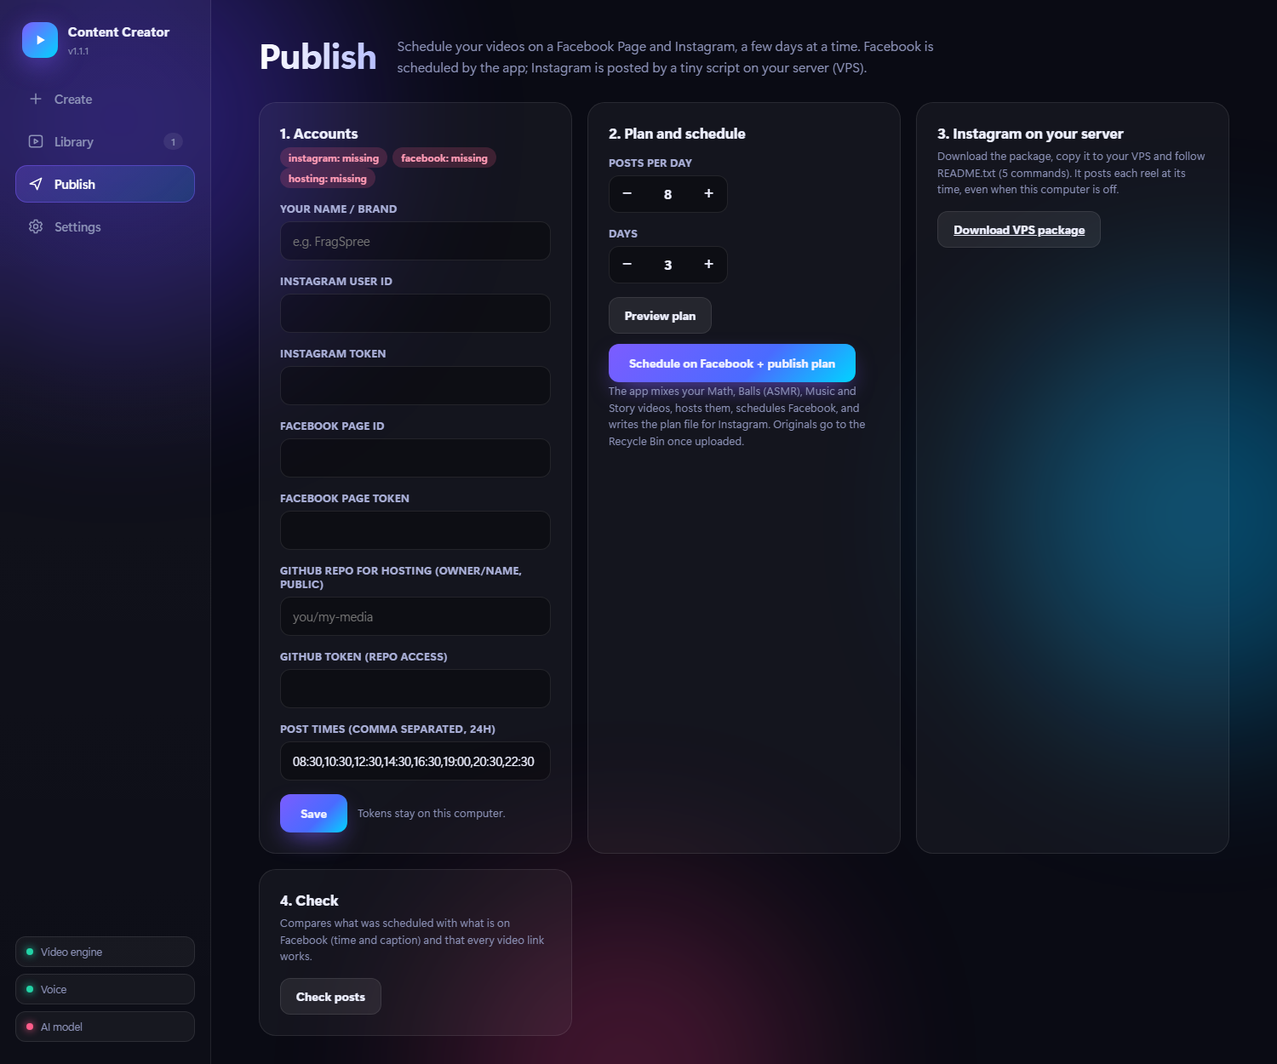
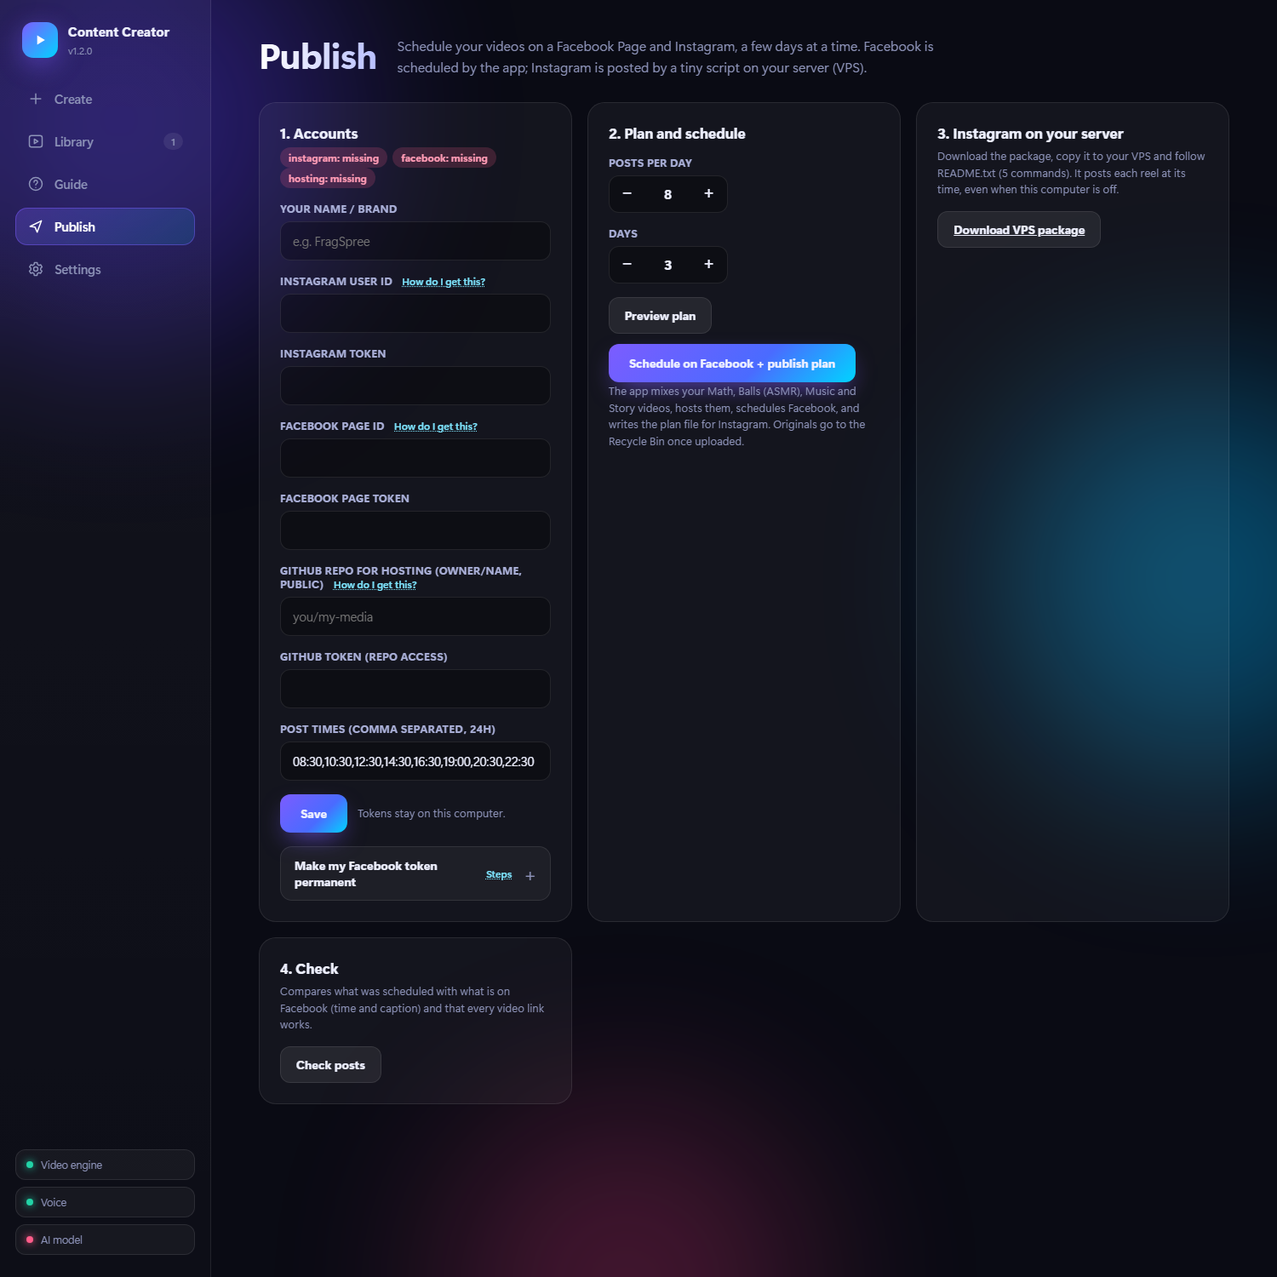
v1.3.0: in-app Guide, help links on Publish, permanent Facebook token button

diff --git a/ui/index.html b/ui/index.html
@@ -18,6 +18,7 @@
   <nav>
     <a data-page="create" class="on"><svg viewBox="0 0 24 24"><path d="M12 5v14M5 12h14"/></svg>Create</a>
     <a data-page="library"><svg viewBox="0 0 24 24"><rect x="3" y="4" width="18" height="16" rx="3"/><path d="M10 9l5 3-5 3z"/></svg>Library <span class="count" id="libCount">0</span></a>
+    <a data-page="guide"><svg viewBox="0 0 24 24"><circle cx="12" cy="12" r="9"/><path d="M9.5 9.5a2.5 2.5 0 1 1 3.5 2.3c-.7.3-1 .9-1 1.7M12 17h.01"/></svg>Guide</a>
     <a data-page="publish"><svg viewBox="0 0 24 24"><path d="M4 12l16-8-6 16-3-7z"/></svg>Publish</a>
     <a data-page="settings"><svg viewBox="0 0 24 24"><circle cx="12" cy="12" r="3"/><path d="M19 12a7 7 0 0 0-.1-1.2l2-1.5-2-3.4-2.4 1a7 7 0 0 0-2-1.2L14.1 3h-4l-.4 2.7a7 7 0 0 0-2 1.2l-2.4-1-2 3.4 2 1.5A7 7 0 0 0 5 12c0 .4 0 .8.1 1.2l-2 1.5 2 3.4 2.4-1a7 7 0 0 0 2 1.2l.4 2.7h4l.4-2.7a7 7 0 0 0 2-1.2l2.4 1 2-3.4-2-1.5c.1-.4.1-.8.1-1.2z"/></svg>Settings</a>
   </nav>
@@ -38,6 +39,8 @@
       <p>Pick a style, press generate. Everything is made on your own computer with free tools — no accounts, no uploads.</p>
     </header>
 
+    <div class="hint" id="startHint">New here? <a class="help" data-goto="g-start">Open the step-by-step guide</a> - it shows how to make your first video and how to post it.
+      <button class="x" id="hintX" title="Hide">&times;</button></div>
     <div class="grid cards" id="types">
       <button class="type" data-type="math" style="--a:#7c5cff;--b:#00d4ff">
         <span class="ico"><svg viewBox="0 0 24 24"><path d="M5 8h6M8 5v6M13 16h6M5 18l5-5M10 18l-5-5"/></svg></span>
@@ -77,6 +80,127 @@
     <div class="grid library" id="library"></div>
   </section>
 
+  <!-- GUIDE -->
+  <section class="page" id="page-guide">
+    <header class="hero slim"><h1>Guide</h1><p>New here? Start at the top and go down. Each step is short. Click a title to open it.</p></header>
+    <div class="guide">
+
+      <details class="gd" id="g-start" open><summary><span class="num">1</span>Make your first video <small>2 minutes</small></summary><div class="gd-body">
+        <ol>
+          <li>Open the <b>Create</b> page (left side).</li>
+          <li>Click a style card, for example <b>Math &amp; Puzzles</b>. A form opens below the cards.</li>
+          <li>Leave the settings as they are and press <b>Generate</b>.</li>
+          <li>Watch the <b>Queue</b> on the right. A video takes about 1 to 3 minutes.</li>
+          <li>When it says <b>Finished</b>, open <b>Library</b> and click the video to play it. The file is also in the <code>output</code> folder of the app.</li>
+        </ol>
+        <p class="note">The first time, the app may ask you to download the voice files (about 340 MB). Open <b>Settings</b> and press <b>Download voice files</b>. It is one time only.</p>
+      </div></details>
+
+      <details class="gd" id="g-styles"><summary><span class="num">2</span>What each style does</summary><div class="gd-body">
+        <ul>
+          <li><b>Math &amp; Puzzles</b> - word problems and riddles with a voice, drawings and the working-out shown step by step.</li>
+          <li><b>Satisfying Balls</b> - calming physics videos (balls, bricks, pegs) with satisfying sounds. Great for ASMR channels.</li>
+          <li><b>Music Balls</b> - balls play a famous public-domain song on a xylophone, bells, glass or drums.</li>
+          <li><b>Story &amp; Facts</b> - you type topics, the AI writes the script, a voice reads it. Needs Ollama (see Settings).</li>
+          <li><b>From a reference link</b> - paste a link to a video you like. The app studies its style and makes a new, original video.</li>
+        </ul>
+      </div></details>
+
+      <details class="gd" id="g-ai"><summary><span class="num">3</span>Turn on the AI (optional) <small>needed for Story &amp; reference</small></summary><div class="gd-body">
+        <ol>
+          <li>Install <b>Ollama</b> from <b>ollama.com</b> and open it once.</li>
+          <li>In this app open <b>Settings</b>. Under <b>Download a model</b> leave <code>llama3.2:3b</code> and press <b>Download</b>. It takes a while (about 2 GB).</li>
+          <li>When it finishes, choose it under <b>Model</b> and press <b>Save</b>.</li>
+        </ol>
+      </div></details>
+
+      <details class="gd" id="g-post"><summary><span class="num">4</span>Post your videos automatically <small>Facebook + Instagram</small></summary><div class="gd-body">
+        <p>This part needs a few accounts and keys. Do the steps below once, in order. You will copy a few IDs and tokens into the <b>Publish</b> page. Nobody else sees them - they stay on this computer.</p>
+        <p class="note"><b>What you need first:</b> an Instagram <b>Professional</b> account (Business or Creator), a Facebook <b>Page</b> you manage, and a free GitHub account.</p>
+      </div></details>
+
+      <details class="gd" id="g-ig"><summary><span class="num">4a</span>Instagram: get the token and ID</summary><div class="gd-body">
+        <ol>
+          <li>Make sure your Instagram is a Professional account: Instagram app &rarr; <b>Settings</b> &rarr; <b>Account type and tools</b> &rarr; switch to professional (Creator or Business).</li>
+          <li>Go to <b>developers.facebook.com</b> and log in with your Facebook.</li>
+          <li>Click <b>My Apps</b> &rarr; <b>Create App</b>. Choose the use case <b>Manage messaging &amp; content on Instagram</b> (or <b>Other</b> &rarr; <b>Business</b>). Give it any name.</li>
+          <li>In the app, open <b>Instagram</b> &rarr; <b>API setup with Instagram login</b>.</li>
+          <li>Open <b>App roles</b> &rarr; <b>Roles</b> &rarr; <b>Add People</b> &rarr; choose <b>Instagram Tester</b> and type your Instagram username.</li>
+          <li><b>Accept the invite</b> in the Instagram app: <b>Settings</b> &rarr; <b>Apps and websites</b> &rarr; <b>Tester invites</b>. (This is the step most people miss.)</li>
+          <li>Back on the API setup page, add the permission <code>instagram_business_content_publish</code> (under <b>Permissions and features</b>).</li>
+          <li>On the API setup page click <b>Add account</b>, log in to your Instagram, then <b>Generate token</b>. Copy the <b>token</b> and the <b>Instagram account ID</b>.</li>
+          <li>In this app: <b>Publish</b> &rarr; paste them into <b>Instagram user ID</b> and <b>Instagram token</b> &rarr; <b>Save</b>.</li>
+        </ol>
+        <p class="note">The token lasts about 60 days. The server script refreshes it automatically.</p>
+      </div></details>
+
+      <details class="gd" id="g-fb"><summary><span class="num">4b</span>Facebook: get the Page ID and a token that never expires</summary><div class="gd-body">
+        <ol>
+          <li>On <b>developers.facebook.com</b> open your app (or make a second one the same way). Add the use case <b>Manage everything on your Page</b>.</li>
+          <li>Under that use case, open <b>Permissions and features</b> and add: <code>pages_show_list</code>, <code>pages_manage_posts</code>, <code>pages_read_engagement</code>.</li>
+          <li>Open <b>Tools</b> &rarr; <b>Graph API Explorer</b>. Pick your app. Leave <b>User or Page</b> on <b>User Token</b>.</li>
+          <li>Under <b>Permissions</b> add the same three permissions and press <b>Generate Access Token</b>. Approve the pop-ups and choose your Page.</li>
+          <li>In the request box type <code>me/accounts?fields=id,name</code> and press <b>Submit</b>. Find your Page's name and copy its <b>id</b>. That is the <b>Page ID</b>.</li>
+          <li>Copy the long token from the <b>Access Token</b> box (this is the short-lived User token).</li>
+          <li>In your app on developers.facebook.com open <b>App settings</b> &rarr; <b>Basic</b>. Copy the <b>App ID</b>. Click <b>Show</b> next to <b>App secret</b> and copy it.</li>
+          <li>In this app: <b>Publish</b> &rarr; type the <b>Facebook Page ID</b> and press <b>Save</b>. Then open <b>Make my Facebook token permanent</b>, paste the App ID, App secret and the User token, and press the button.</li>
+        </ol>
+        <p class="note">When it works you will see your Page name and "never expires". The app secret and user token are not stored.</p>
+      </div></details>
+
+      <details class="gd" id="g-gh"><summary><span class="num">4c</span>GitHub: a place to host your videos for Instagram</summary><div class="gd-body">
+        <p>Instagram downloads each video from a normal web link. A free public GitHub repository gives you that.</p>
+        <ol>
+          <li>Go to <b>github.com</b> &rarr; <b>New repository</b>. Name it something like <code>my-media</code>, choose <b>Public</b>, tick <b>Add a README</b>, press <b>Create</b>.</li>
+          <li>Click your profile picture &rarr; <b>Settings</b> &rarr; <b>Developer settings</b> &rarr; <b>Personal access tokens</b> &rarr; <b>Fine-grained tokens</b> &rarr; <b>Generate new token</b>.</li>
+          <li>Pick <b>Only select repositories</b> and choose your new repo. Under <b>Permissions</b> &rarr; <b>Repository permissions</b> set <b>Contents</b> to <b>Read and write</b>. Generate and copy the token.</li>
+          <li>In this app: <b>Publish</b> &rarr; <b>GitHub repo</b> = <code>yourname/my-media</code>, <b>GitHub token</b> = the token &rarr; <b>Save</b>.</li>
+        </ol>
+        <p class="note">Videos stay in the repo only until you remove them. Anyone can see a public repo, but these are videos you are posting publicly anyway.</p>
+      </div></details>
+
+      <details class="gd" id="g-plan"><summary><span class="num">4d</span>Make a plan and schedule it</summary><div class="gd-body">
+        <ol>
+          <li>Open <b>Publish</b>. Check the three tags at the top say <b>ready</b>.</li>
+          <li>Under <b>Post times</b> keep the list or change it (24-hour clock, separated by commas).</li>
+          <li>Choose <b>Posts per day</b> and <b>Days</b>, then press <b>Preview plan</b>. Read the list.</li>
+          <li>Press <b>Schedule on Facebook + publish plan</b>. The app uploads the videos, schedules Facebook, and publishes the plan for Instagram. Watch the <b>Queue</b>.</li>
+          <li>Press <b>Check posts</b> later to see that everything matches.</li>
+        </ol>
+        <p class="note">Facebook posts are scheduled by Facebook itself, so your computer can be off. Instagram has no scheduling, so a small script on a server posts it at the right time (next step).</p>
+      </div></details>
+
+      <details class="gd" id="g-vps"><summary><span class="num">4e</span>Instagram posting on a server (VPS)</summary><div class="gd-body">
+        <p>Do this once. A VPS is a small always-on computer you rent. Windows or Linux both work.</p>
+        <ol>
+          <li>In the app: <b>Publish</b> &rarr; <b>Download VPS package</b>. Unzip it. Copy the folder to the VPS (for example <code>C:\poster</code>).</li>
+          <li>On the VPS make sure Python 3 is installed (<code>python --version</code>). Then install one library:<pre>python -m pip install requests</pre></li>
+          <li>Create the file <code>.env</code> in that folder (copy <code>.env.template</code>) and fill in <code>IG_USER_ID</code> and <code>IG_TOKEN</code>.</li>
+          <li>Test: <pre>python vps_poster.py --dry</pre> It should say <b>started (dry run)</b>.</li>
+          <li><b>Windows:</b> run this in PowerShell as Administrator so it starts by itself after a restart:
+<pre>$py = (Get-Command python).Source
+$a = New-ScheduledTaskAction -Execute $py -Argument "C:\poster\vps_poster.py" -WorkingDirectory "C:\poster"
+$t = New-ScheduledTaskTrigger -AtStartup
+Register-ScheduledTask -TaskName Poster -Action $a -Trigger $t -RunLevel Highest -User "SYSTEM" -Force
+Start-ScheduledTask -TaskName Poster</pre></li>
+          <li><b>Linux:</b> <pre>nohup python3 vps_poster.py &gt; /dev/null 2&gt;&amp;1 &amp;</pre></li>
+          <li>Open <code>vps_poster.log</code> in that folder to see what it did. You are done - it posts at each time in your plan.</li>
+        </ol>
+      </div></details>
+
+      <details class="gd" id="g-help"><summary><span class="num">?</span>If something goes wrong</summary><div class="gd-body">
+        <ul>
+          <li><b>"Voice model missing"</b> - Settings &rarr; Download voice files.</li>
+          <li><b>"Ollama is not running"</b> - open the Ollama app, then try again.</li>
+          <li><b>Facebook says the token expired</b> - repeat 4b (the permanent token button).</li>
+          <li><b>Instagram says ERROR</b> - the video link must be public. Check the GitHub repo is <b>Public</b> and the GitHub token has <b>Contents: Read and write</b>.</li>
+          <li><b>Nothing posts on Instagram</b> - check the VPS script is running and read <code>vps_poster.log</code>. The VPS must be on.</li>
+          <li><b>The app looks old</b> - Settings &rarr; Check now. Updates keep your videos and settings.</li>
+        </ul>
+      </div></details>
+    </div>
+  </section>
+
   <!-- PUBLISH -->
   <section class="page" id="page-publish">
     <header class="hero slim"><h1>Publish</h1><p>Schedule your videos on a Facebook Page and Instagram, a few days at a time. Facebook is scheduled by the app; Instagram is posted by a tiny script on your server (VPS).</p></header>
@@ -85,14 +209,21 @@
         <h3>1. Accounts</h3>
         <p class="muted" id="pubReady"></p>
         <label>Your name / brand</label><input id="p_brand" placeholder="e.g. FragSpree">
-        <label>Instagram user ID</label><input id="p_ig_user_id">
+        <label>Instagram user ID <a class="help" data-goto="g-ig">How do I get this?</a></label><input id="p_ig_user_id">
         <label>Instagram token</label><input id="p_ig_token" type="password" autocomplete="off">
-        <label>Facebook Page ID</label><input id="p_fb_page_id">
+        <label>Facebook Page ID <a class="help" data-goto="g-fb">How do I get this?</a></label><input id="p_fb_page_id">
         <label>Facebook Page token</label><input id="p_fb_page_token" type="password" autocomplete="off">
-        <label>GitHub repo for hosting (owner/name, public)</label><input id="p_github_repo" placeholder="you/my-media">
+        <label>GitHub repo for hosting (owner/name, public) <a class="help" data-goto="g-gh">How do I get this?</a></label><input id="p_github_repo" placeholder="you/my-media">
         <label>GitHub token (repo access)</label><input id="p_github_token" type="password" autocomplete="off">
         <label>Post times (comma separated, 24h)</label><input id="p_slots">
         <div class="row"><button class="btn primary" id="pubSave">Save</button><span class="muted">Tokens stay on this computer.</span></div>
+        <details class="gd mini"><summary>Make my Facebook token permanent <a class="help" data-goto="g-fb">Steps</a></summary><div class="gd-body">
+          <p class="muted">Facebook tokens normally die after a few hours. Paste these three values once and the app gets a Page token that never expires. They are not stored.</p>
+          <label>App ID</label><input id="pm_app_id" autocomplete="off">
+          <label>App secret</label><input id="pm_app_secret" type="password" autocomplete="off">
+          <label>User token (from Graph API Explorer)</label><input id="pm_user_token" type="password" autocomplete="off">
+          <div class="row"><button class="btn" id="pmGo">Make it permanent</button><span class="muted" id="pmOut"></span></div>
+        </div></details>
       </div>
       <div class="panel">
         <h3>2. Plan and schedule</h3>

diff --git a/ui/app.js b/ui/app.js
@@ -23,6 +23,7 @@ $$("nav a").forEach(a => a.onclick = () => {
   if (a.dataset.page === "library") loadLibrary();
   if (a.dataset.page === "settings") renderSettings();
   if (a.dataset.page === "publish") loadPublish();
+  window.scrollTo(0, 0);
 });
 
 /* ---------------- composer ---------------- */
@@ -242,6 +243,16 @@ $("#updBtn").onclick = async () => {
   } catch (e) { toast("Update failed: " + e.message, "bad"); $("#updBtn").disabled = false; $("#updBtn").textContent = "Update now"; }
 };
 
+/* ---------------- guide links ---------------- */
+function goGuide(id) {
+  $('nav a[data-page="guide"]').click();
+  const el = document.getElementById(id);
+  if (el) { el.open = true; setTimeout(() => el.scrollIntoView({ behavior: "smooth", block: "start" }), 80); }
+}
+document.addEventListener("click", e => { const a = e.target.closest("[data-goto]"); if (a) { e.preventDefault(); e.stopPropagation(); goGuide(a.dataset.goto); } });
+try { if (localStorage.getItem("hintX")) $("#startHint").hidden = true; } catch { }
+$("#hintX").onclick = () => { $("#startHint").hidden = true; try { localStorage.setItem("hintX", "1"); } catch { } };
+
 /* ---------------- publish ---------------- */
 const PUB = ["brand", "ig_user_id", "ig_token", "fb_page_id", "fb_page_token", "github_repo", "github_token", "slots"];
 const pubForm = { per_day: 8, days: 3 };
@@ -262,6 +273,18 @@ $("#pubSave").onclick = async () => {
 const table = (rows, cols) => rows.length ? `<div style="overflow:auto;max-height:340px;margin-top:14px"><table style="width:100%;border-collapse:collapse;font-size:13px">` +
   `<tr>${cols.map(c => `<th style="text-align:left;padding:6px 8px;color:var(--muted)">${c[1]}</th>`).join("")}</tr>` +
   rows.map(r => `<tr style="border-top:1px solid var(--line)">${cols.map(c => `<td style="padding:6px 8px">${esc(r[c[0]])}</td>`).join("")}</tr>`).join("") + `</table></div>` : `<p class="muted">Nothing to show yet.</p>`;
+$("#pmGo").onclick = async () => {
+  $("#pmOut").textContent = "Working...";
+  try {
+    const r = await fetch("/api/publish/permanent", { method: "POST", headers: { "Content-Type": "application/json" },
+      body: JSON.stringify({ app_id: $("#pm_app_id").value, app_secret: $("#pm_app_secret").value, user_token: $("#pm_user_token").value }) });
+    const j = await r.json();
+    if (!r.ok) throw new Error(j.error);
+    $("#pmOut").textContent = `Done: ${j.page} - token expires ${j.expires}`;
+    ["pm_app_secret", "pm_user_token"].forEach(i => $("#" + i).value = "");
+    toast("Facebook token saved", "good"); loadPublish();
+  } catch (e) { $("#pmOut").textContent = ""; toast(e.message, "bad"); }
+};
 $("#pubPreview").onclick = async () => {
   try { const plan = await api("/api/publish/plan", pubForm); $("#pubTable").innerHTML = table(plan, [["n", "#"], ["time", "When"], ["type", "Type"], ["name", "Video"]]); }
   catch (e) { toast(e.message, "bad"); }
@@ -284,6 +307,6 @@ $("#pubVerify").onclick = async () => {
   setInterval(loadStatus, 5 * 60 * 1000);
   // deep links: #library, #settings, #type=math  (used for the README screenshots)
   const h = location.hash.slice(1);
-  if (h === "library" || h === "settings" || h === "publish") $(`nav a[data-page=${h}]`).click();
+  if (h === "library" || h === "settings" || h === "publish" || h === "guide") $(`nav a[data-page=${h}]`).click();
   if (h.startsWith("type=")) openComposer(h.slice(5));
 })();

diff --git a/ui/style.css b/ui/style.css
@@ -138,3 +138,20 @@ select option{background:#14162a}
 ::-webkit-scrollbar{width:10px;height:10px}::-webkit-scrollbar-thumb{background:rgba(255,255,255,.12);border-radius:99px}
 
 @media (prefers-reduced-motion: reduce){*,*::before,*::after{animation:none!important;transition:none!important}}
+
+.guide{display:flex;flex-direction:column;gap:12px;max-width:900px}
+.gd{background:var(--panel);border:1px solid var(--line);border-radius:18px;overflow:hidden}
+.gd summary{list-style:none;cursor:pointer;padding:16px 20px;font-weight:700;font-size:16px;display:flex;align-items:center;gap:14px}
+.gd summary::-webkit-details-marker{display:none}
+.gd summary::after{content:"+";margin-left:auto;color:var(--muted);font-size:22px;font-weight:400}
+.gd[open] summary::after{content:"\2212"}
+.gd summary small{color:var(--muted);font-weight:500;font-size:12.5px}
+.gd .num{min-width:34px;height:34px;border-radius:11px;background:linear-gradient(135deg,var(--accent),var(--accent2));display:grid;place-items:center;font-size:14px;padding:0 6px}
+.gd-body{padding:4px 22px 20px 68px;color:#cfd3f5;line-height:1.65;font-size:14.5px}
+.gd-body ol,.gd-body ul{padding-left:20px;display:flex;flex-direction:column;gap:7px;margin:8px 0}
+.gd-body pre{background:rgba(0,0,0,.35);border:1px solid var(--line);border-radius:12px;padding:12px 14px;margin:8px 0;overflow:auto;font-size:13px;color:#e7e9ff;white-space:pre-wrap}
+.gd-body .note{margin-top:12px;padding:12px 14px;border-radius:12px;background:rgba(0,212,255,.08);border:1px solid rgba(0,212,255,.25);font-size:13.5px}
+.gd.mini{margin-top:16px;border-radius:14px}.gd.mini summary{font-size:14px;padding:12px 16px}.gd.mini .gd-body{padding:0 16px 16px}
+a.help{color:#7fe6ff;font-size:12px;font-weight:600;text-transform:none;letter-spacing:0;margin-left:8px;cursor:pointer;text-decoration:underline dotted}
+.hint{display:flex;align-items:center;gap:10px;margin:-8px 0 20px;padding:12px 16px;border-radius:14px;background:rgba(124,92,255,.14);border:1px solid rgba(124,92,255,.4);font-size:14px}
+.hint .x{margin-left:auto;background:none;border:0;color:var(--muted);font-size:20px;cursor:pointer}

diff --git a/forge/publisher.py b/forge/publisher.py
@@ -226,3 +226,21 @@ def vps_package() -> bytes:
         z.writestr(".env.template", "IG_USER_ID=\nIG_TOKEN=\n")
         z.writestr("README.txt", readme)
     return buf.getvalue()
+
+
+def make_permanent(app_id: str, app_secret: str, user_token: str) -> dict:
+    """short-lived User token + app id/secret -> never-expiring Page token, saved in the config (secrets are not stored)"""
+    cfg = load()
+    if not cfg["fb_page_id"]:
+        raise RuntimeError("Enter the Facebook Page ID first (Accounts), then press Save.")
+    r = requests.get(f"https://graph.facebook.com/{GRAPH}/oauth/access_token", params={
+        "grant_type": "fb_exchange_token", "client_id": app_id, "client_secret": app_secret, "fb_exchange_token": user_token}, timeout=30).json()
+    if "access_token" not in r:
+        raise RuntimeError("Facebook said: " + str(r.get("error", {}).get("message", r)))
+    p = requests.get(f"https://graph.facebook.com/{GRAPH}/{cfg['fb_page_id']}", params={"fields": "name,access_token", "access_token": r["access_token"]}, timeout=30).json()
+    if "access_token" not in p:
+        raise RuntimeError("Could not get the Page token: " + str(p.get("error", {}).get("message", p)))
+    d = requests.get("https://graph.facebook.com/debug_token", params={"input_token": p["access_token"], "access_token": p["access_token"]}, timeout=30).json().get("data", {})
+    save({"fb_page_token": p["access_token"]})
+    exp = d.get("expires_at", 0)
+    return {"page": p.get("name", ""), "expires": "never" if not exp else f"in {round((exp - time.time()) / 86400)} days"}

diff --git a/app.py b/app.py
@@ -109,6 +109,15 @@ def pub_run():
     return jsonify(jobs.submit("publish", {"per_day": d.get("per_day", 8), "days": d.get("days", 3), "start": d.get("start", "")}))
 
 
+@app.post("/api/publish/permanent")
+def pub_permanent():
+    d = request.get_json(force=True) or {}
+    try:
+        return jsonify(publisher.make_permanent(d.get("app_id", "").strip(), d.get("app_secret", "").strip(), d.get("user_token", "").strip()))
+    except Exception as e:
+        return jsonify({"error": str(e)}), 400
+
+
 @app.get("/api/publish/verify")
 def pub_verify():
     return jsonify(publisher.verify())

diff --git a/README.md b/README.md
@@ -57,6 +57,8 @@ That is it. Pick a style on the **Create** page and press **Generate**. Finished
 
 ## Publish (Facebook + Instagram)
 
+New to this? Open the **Guide** page in the app: it explains every step in plain words, from your first video to posting on Facebook and Instagram.
+
 Open the **Publish** page, enter your Instagram / Facebook IDs and tokens and a public GitHub repo for hosting, choose posts per day and days, and press *Schedule*.
 Facebook posts are scheduled natively. Instagram is posted by a tiny script on your server: download the VPS package from the same page (Windows or Linux, Python only).
 Tokens stay in `data/publish.json` on your computer and are never uploaded.

diff --git a/CHANGELOG.md b/CHANGELOG.md
@@ -1,5 +1,10 @@
 # Changelog
 
+## 1.3.0
+- New Guide page: step-by-step instructions for beginners (first video, AI, Instagram token, Facebook token, GitHub hosting, scheduling, VPS, troubleshooting).
+- Publish page: "How do I get this?" links next to each field, and a "Make my Facebook token permanent" button (no script needed).
+- Create page: "New here?" hint that opens the guide.
+
 ## 1.2.0
 - New Publish page: schedule videos on a Facebook Page (native scheduling), host them for Instagram, build a mixed Math/ASMR/Music/Story plan, download a ready VPS package, and check that everything matches.
 
